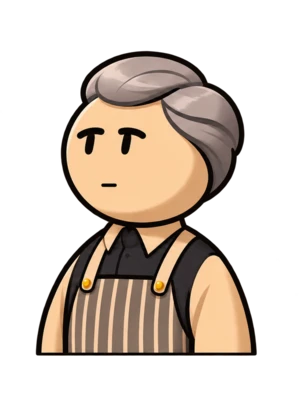
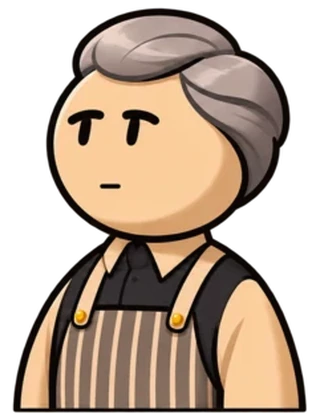
Align portrait framing and match expressions to dialogue

diff --git a/style.css b/style.css
@@ -226,24 +226,13 @@ canvas {
   --portrait-width: 87%;
 }
 
-/* Match the visible bust to the deadpan portrait despite extra transparent padding. */
 .conversation-portrait[data-portrait="creamery-bartender"] {
   --portrait-width: 79%;
 }
 
-.conversation-portrait[data-portrait="creamery-bartender"][data-expression="polite"] {
-  --portrait-width: 109%;
-  --portrait-shift-x: -51.1%;
-}
-
-.conversation-portrait[data-portrait="creamery-bartender"][data-expression="skeptical"] {
-  --portrait-width: 109.4%;
-  --portrait-shift-x: -48.5%;
-}
-
-.conversation-portrait[data-portrait="creamery-bartender"][data-expression="thinking"] {
-  --portrait-width: 105.4%;
-  --portrait-shift-x: -47.6%;
+.conversation-portrait.report-portrait:is([data-portrait="guard"], [data-portrait="milo"])::before {
+  width: var(--portrait-width, 128%);
+  height: auto;
 }
 
 .conversation-portrait.standalone-portrait[data-portrait="professor"]::before {
